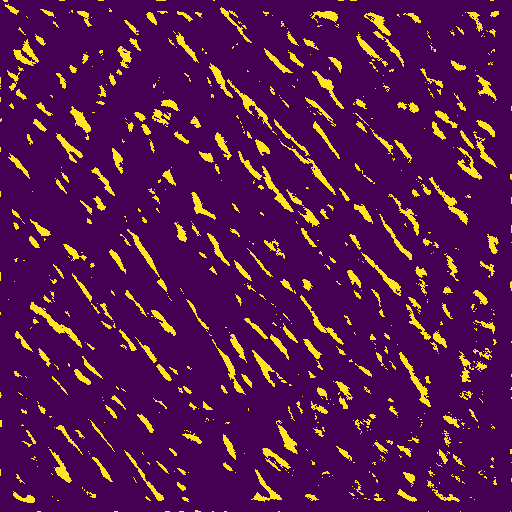
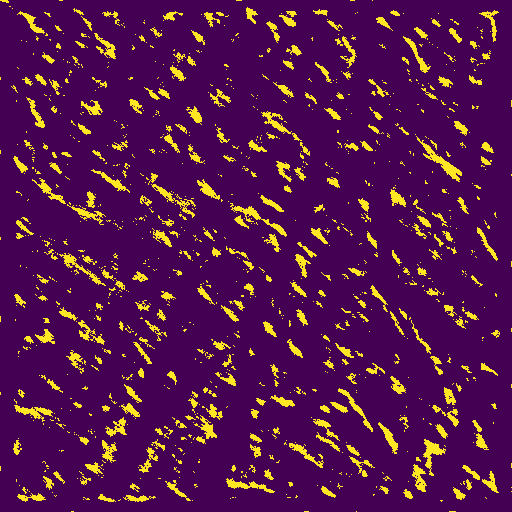
s
s

diff --git a/main.py b/main.py
@@ -35,7 +35,7 @@ def mypolygon_perimeter(X, Y, image_shape):
 
 
 # read images
-imgs = cv2.imreadmulti("health1.tif", flags=cv2.IMREAD_GRAYSCALE + cv2.IMREAD_ANYDEPTH)[1]
+imgs = cv2.imreadmulti("health.tif", flags=cv2.IMREAD_GRAYSCALE + cv2.IMREAD_ANYDEPTH)[1]
 
 for i, img in enumerate(imgs):
     filename = f"face_1_frame-{i}.png"
@@ -384,10 +384,57 @@ for i in range(0,512):
     for k in range(0,512):
         if(img[i][k]>0):
             img[i][k] = 1
-cv2.imshow("img2",img)
+cv2.imshow("BlackandWhite",img)
+plt.imsave("Dilated Image With Defauld_BlackandWhite.png",img)
 cv2.waitKey(0)
 img2 = img_as_float(io.imread('face_1_frame-0.png', as_gray=True))
 result=img2*img
 plt.imsave("Dilated Image With Defauld.png",result)
 cv2.imshow("result",result)
 cv2.waitKey(0)
+
+
+
+
+
+
+img = cv2.imread('Dilated Image With Defauld.png')
+gray = cv2.cvtColor(img,cv2.COLOR_BGR2GRAY)
+
+kernel_size = 5
+blur_gray = cv2.GaussianBlur(gray,(kernel_size, kernel_size),0)
+
+low_threshold = 50
+high_threshold = 150
+edges = cv2.Canny(blur_gray, low_threshold, high_threshold)
+
+rho = 1  # distance resolution in pixels of the Hough grid
+theta = np.pi / 180  # angular resolution in radians of the Hough grid
+threshold = 60 #15  # minimum number of votes (intersections in Hough grid cell)
+min_line_length = 70 #50  # minimum number of pixels making up a line
+max_line_gap = 20  # maximum gap in pixels between connectable line segments
+line_image = np.copy(img) * 0  # creating a blank to draw lines on
+
+# Run Hough on edge detected image
+# Output "lines" is an array containing endpoints of detected line segments
+lines = cv2.HoughLinesP(edges, rho, theta, threshold, np.array([]),
+                    min_line_length, max_line_gap)
+
+for line in lines:
+    for x1,y1,x2,y2 in line:
+        cv2.line(line_image,(x1,y1),(x2,y2),(255,0,0),5)
+
+# Draw the lines on the  image
+lines_edges = cv2.addWeighted(img, 0.8, line_image, 1, 0)
+
+cv2.imshow("lines_edges",lines_edges)
+plt.imsave("lines_edges.png",lines_edges)
+cv2.waitKey(0)
+
+
+
+
+
+
+
+
